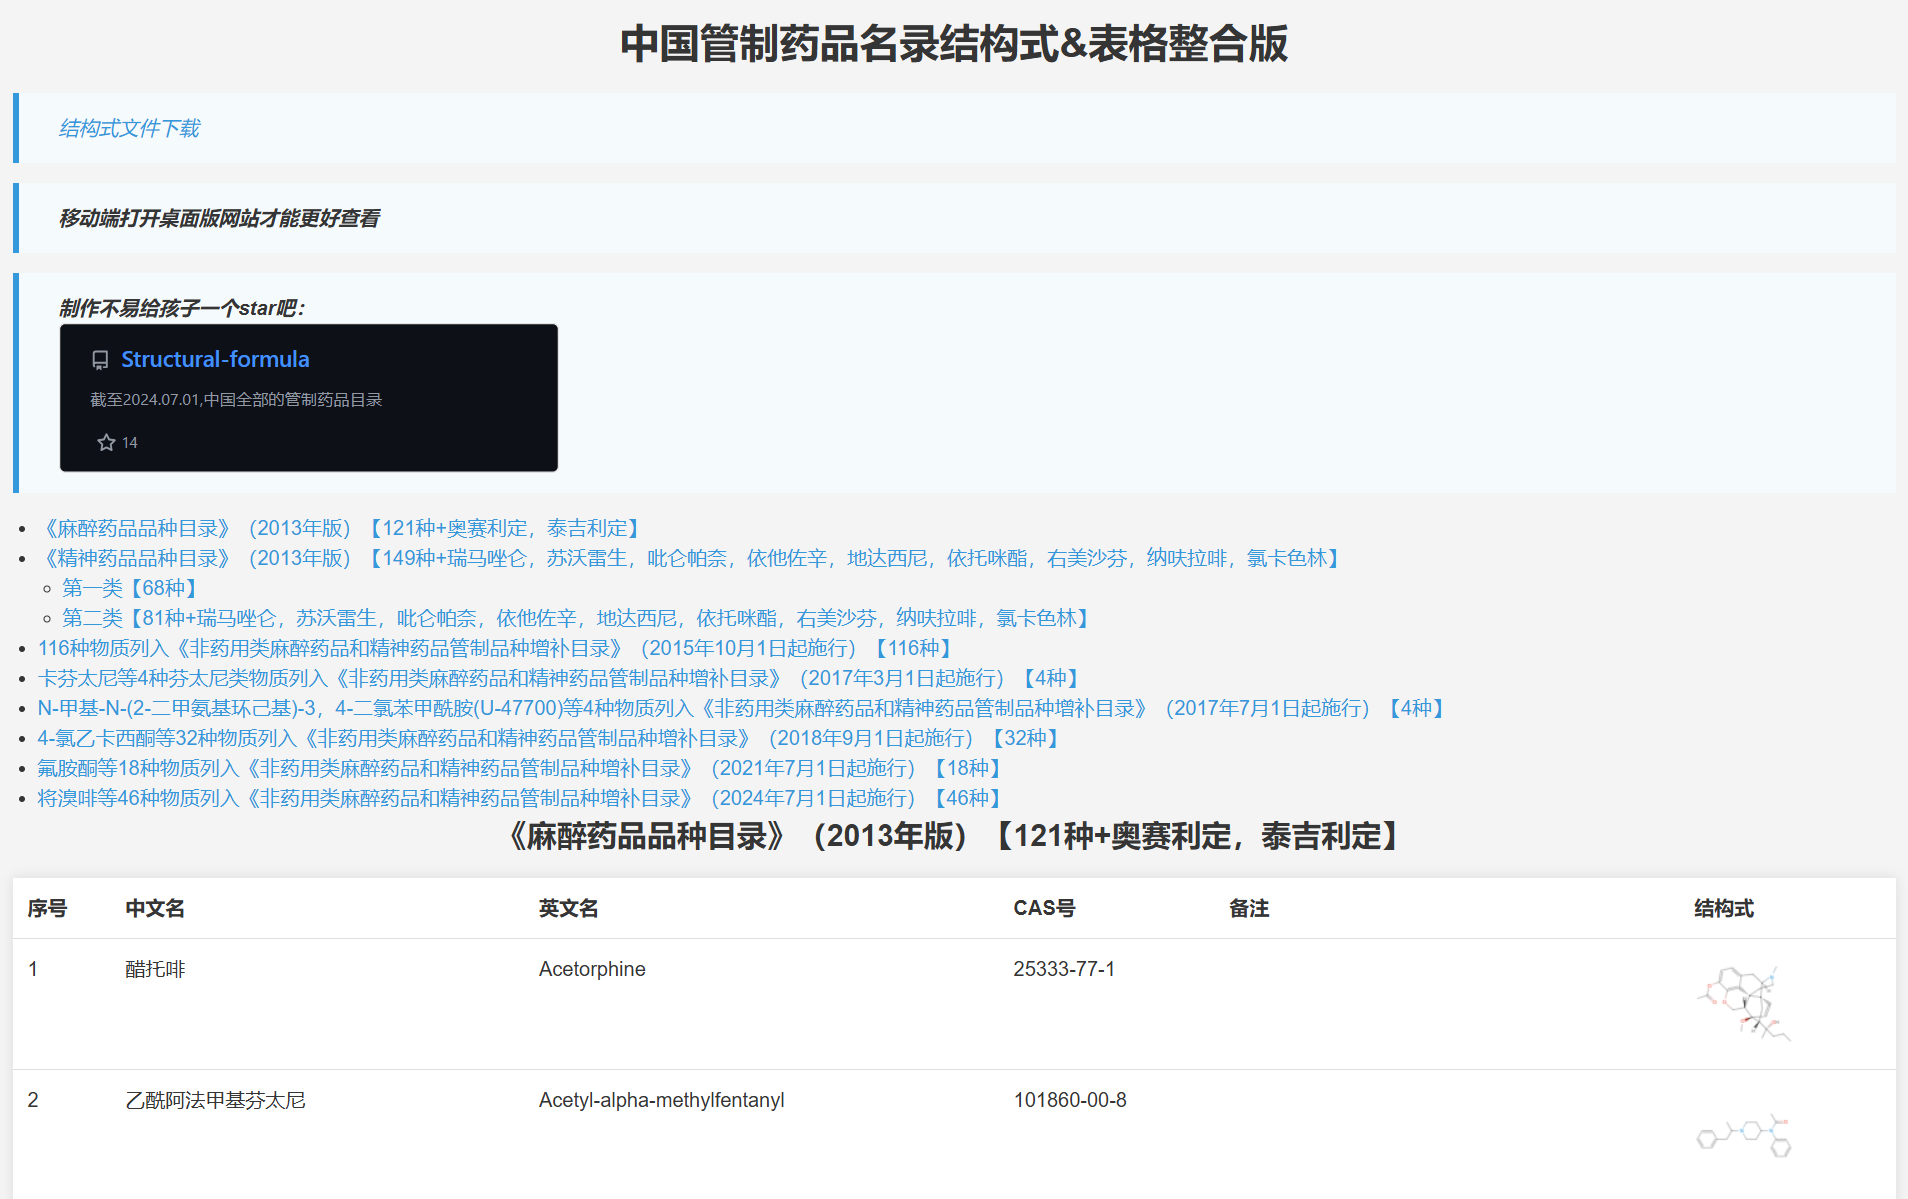
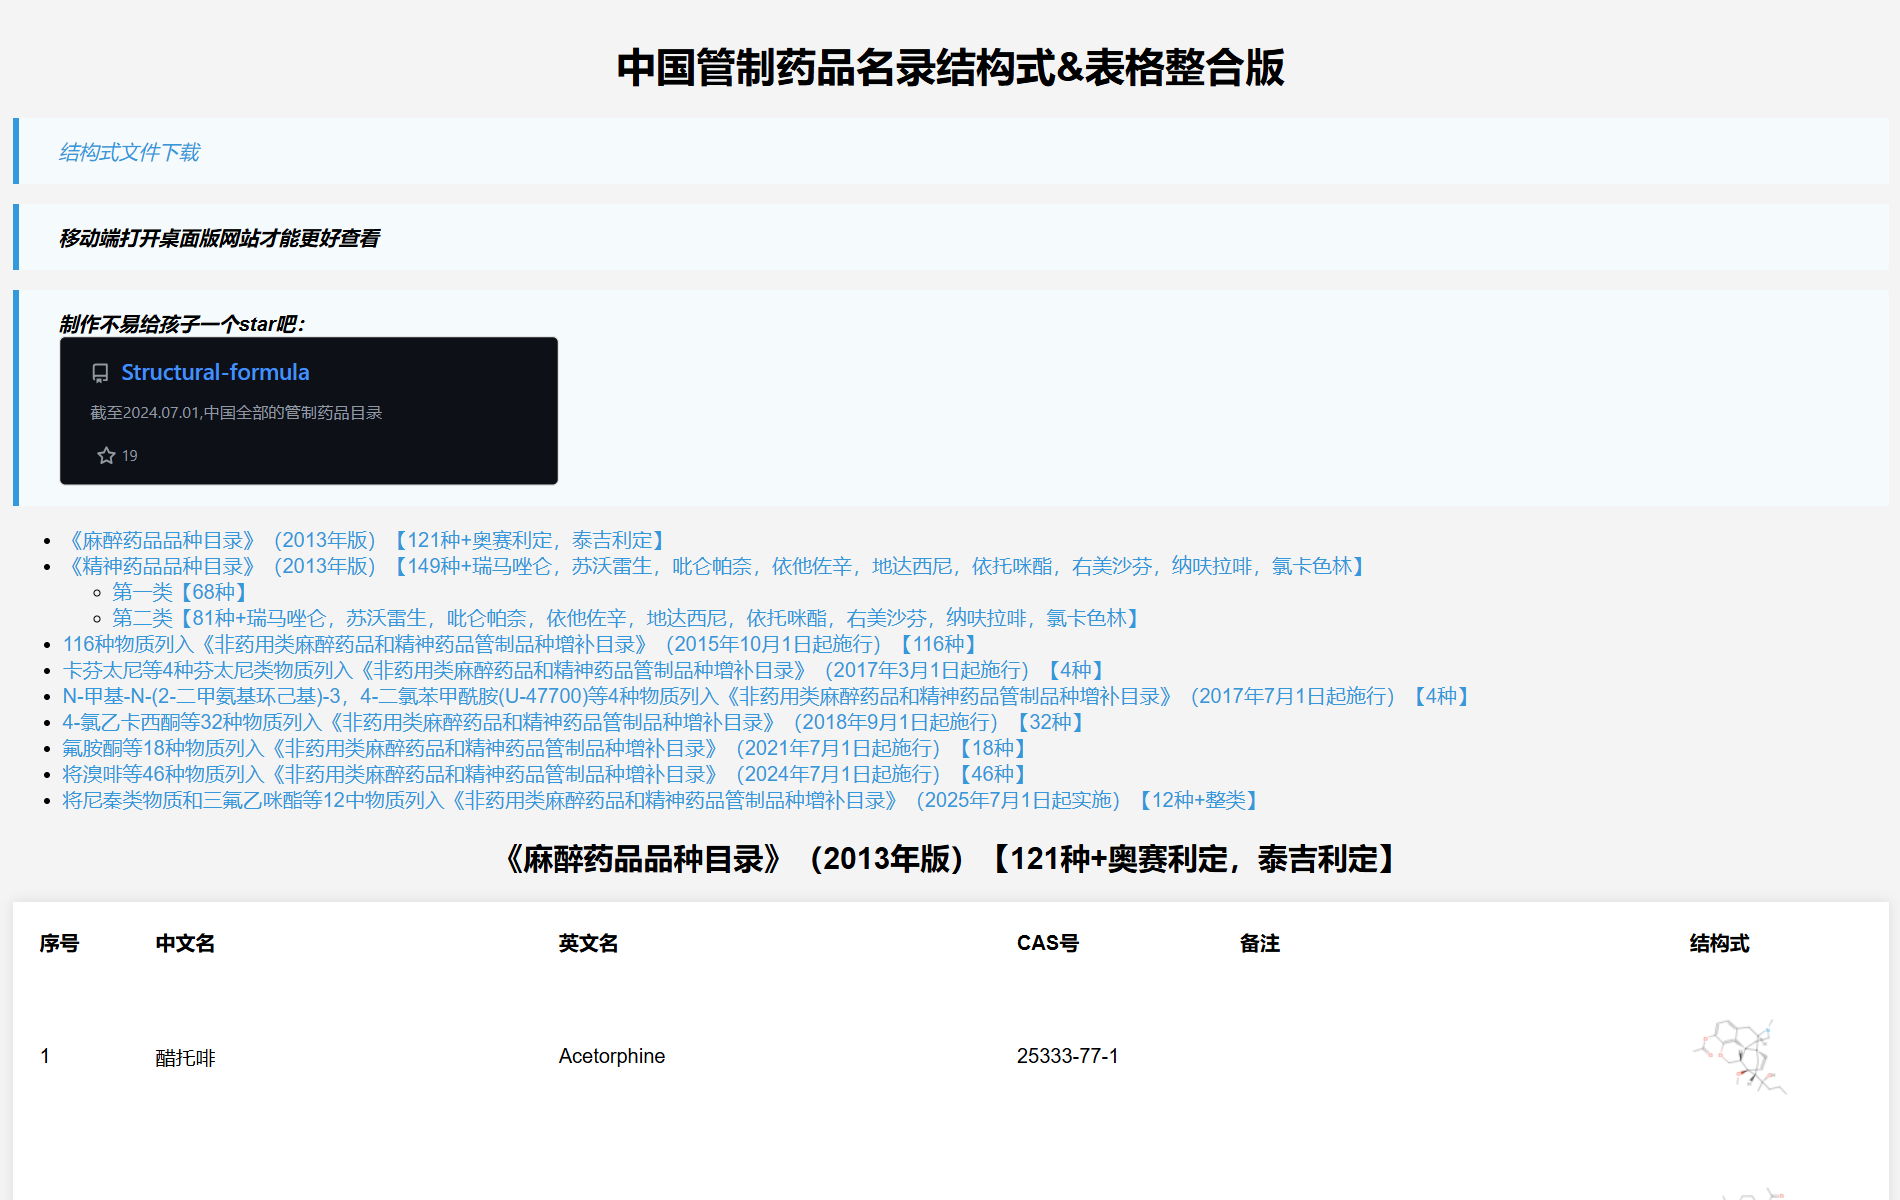
update

diff --git a/README.md b/README.md
@@ -1,4 +1,4 @@
-# [截至2024.07.01,中国全部的管制药品目录](https://benzyl-titanium.pages.dev/posts/structural-formula)
+# [截至2025.07.01,中国全部的管制药品目录](https://benzyl-titanium.pages.dev/posts/structural-formula)
 
 ## [中国管制药品名录结构式&表格整合版](https://biantai.pages.dev/Structural-formula)
 
@@ -13,6 +13,6 @@
 
 ## 文件下载
 
-- [我国管制毒品目录表格（2024年7月更新，509种+两大类）](https://github.com/Benzyl-titanium/Structural-formula/releases/download/drugs/2024.07.01.xlsx)
+- [我国管制毒品目录表格（2025年7月更新，521种+三大类）](https://github.com/Benzyl-titanium/Structural-formula/releases/download/drugs/2025.07.01.xlsx)
 
-- [截至2024.07.01中国管制药品结构式文件](https://github.com/Benzyl-titanium/Structural-formula/releases/download/drugs/Structural-formula.zip)
+- [截至2025.07.01中国管制药品结构式文件](https://github.com/Benzyl-titanium/Structural-formula/releases/download/drugs/Structural-formula.zip)
